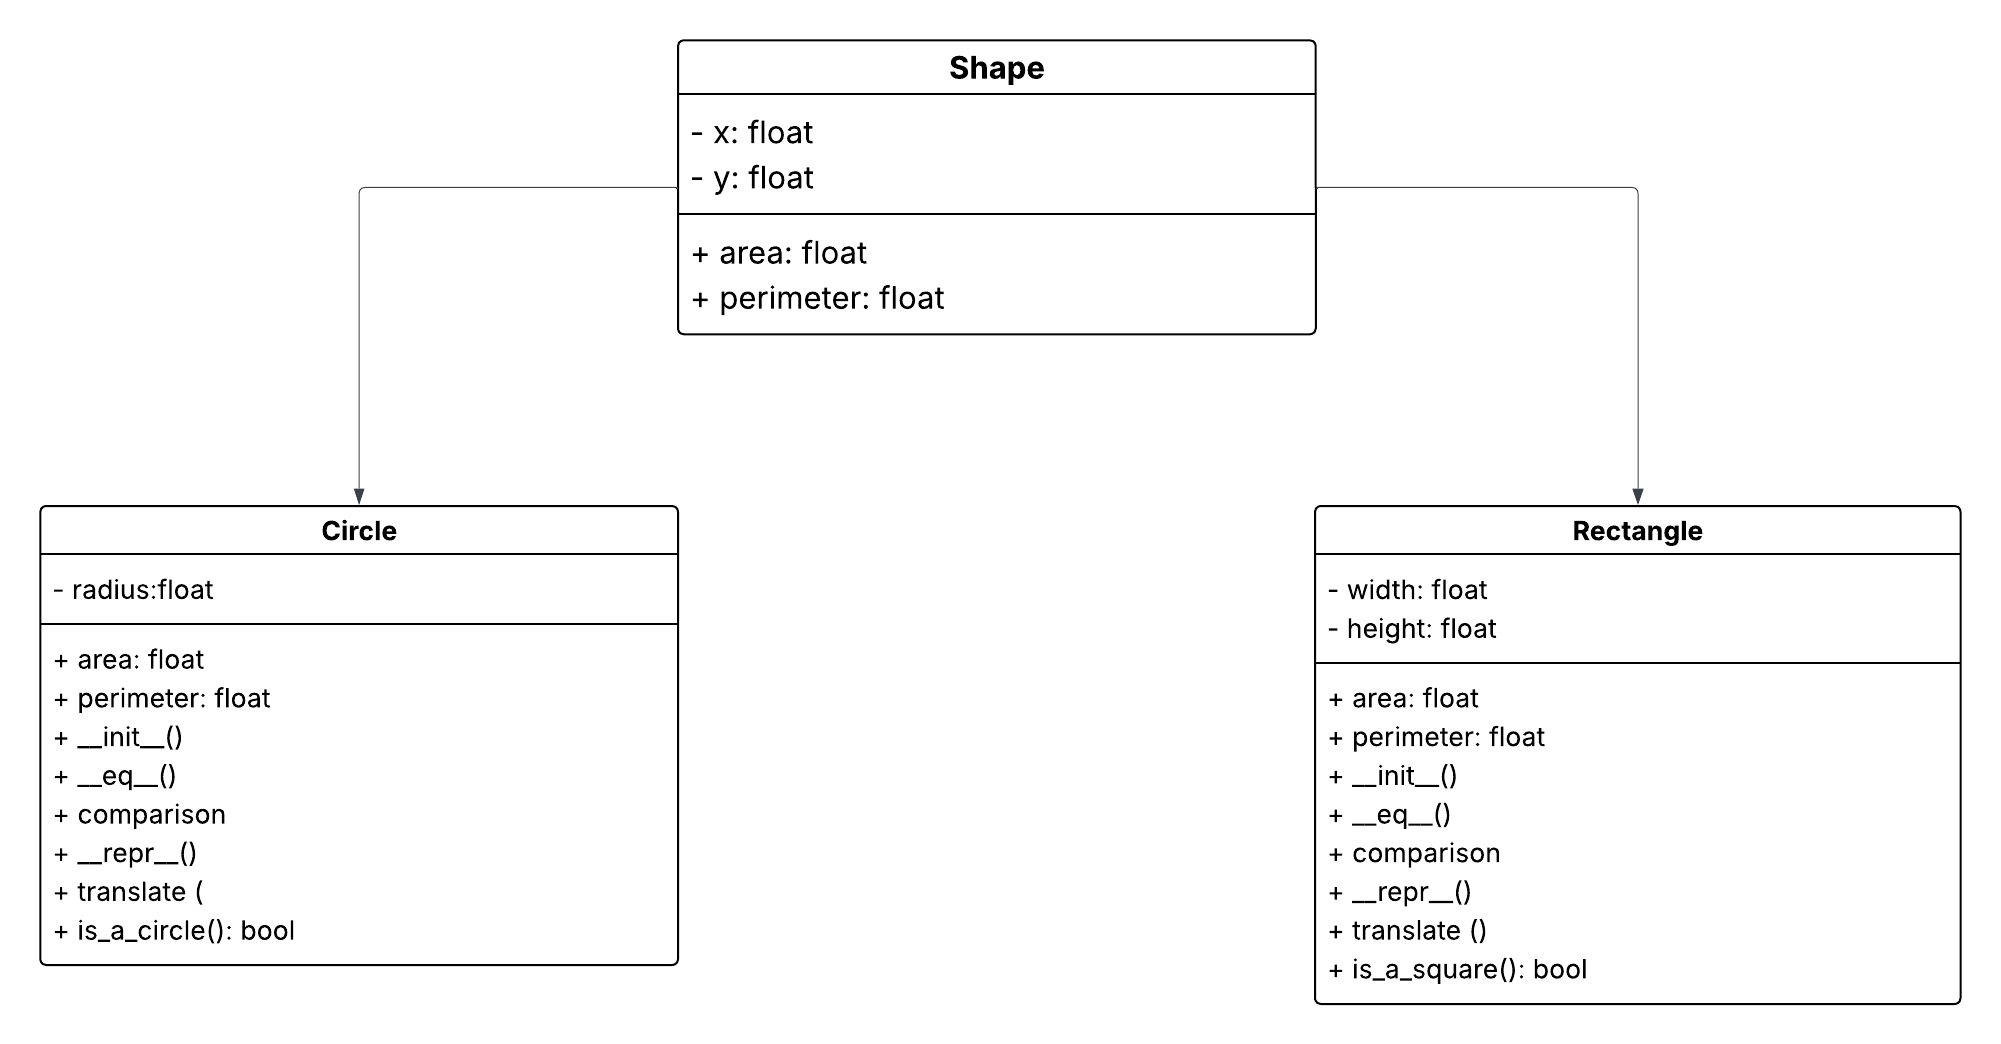
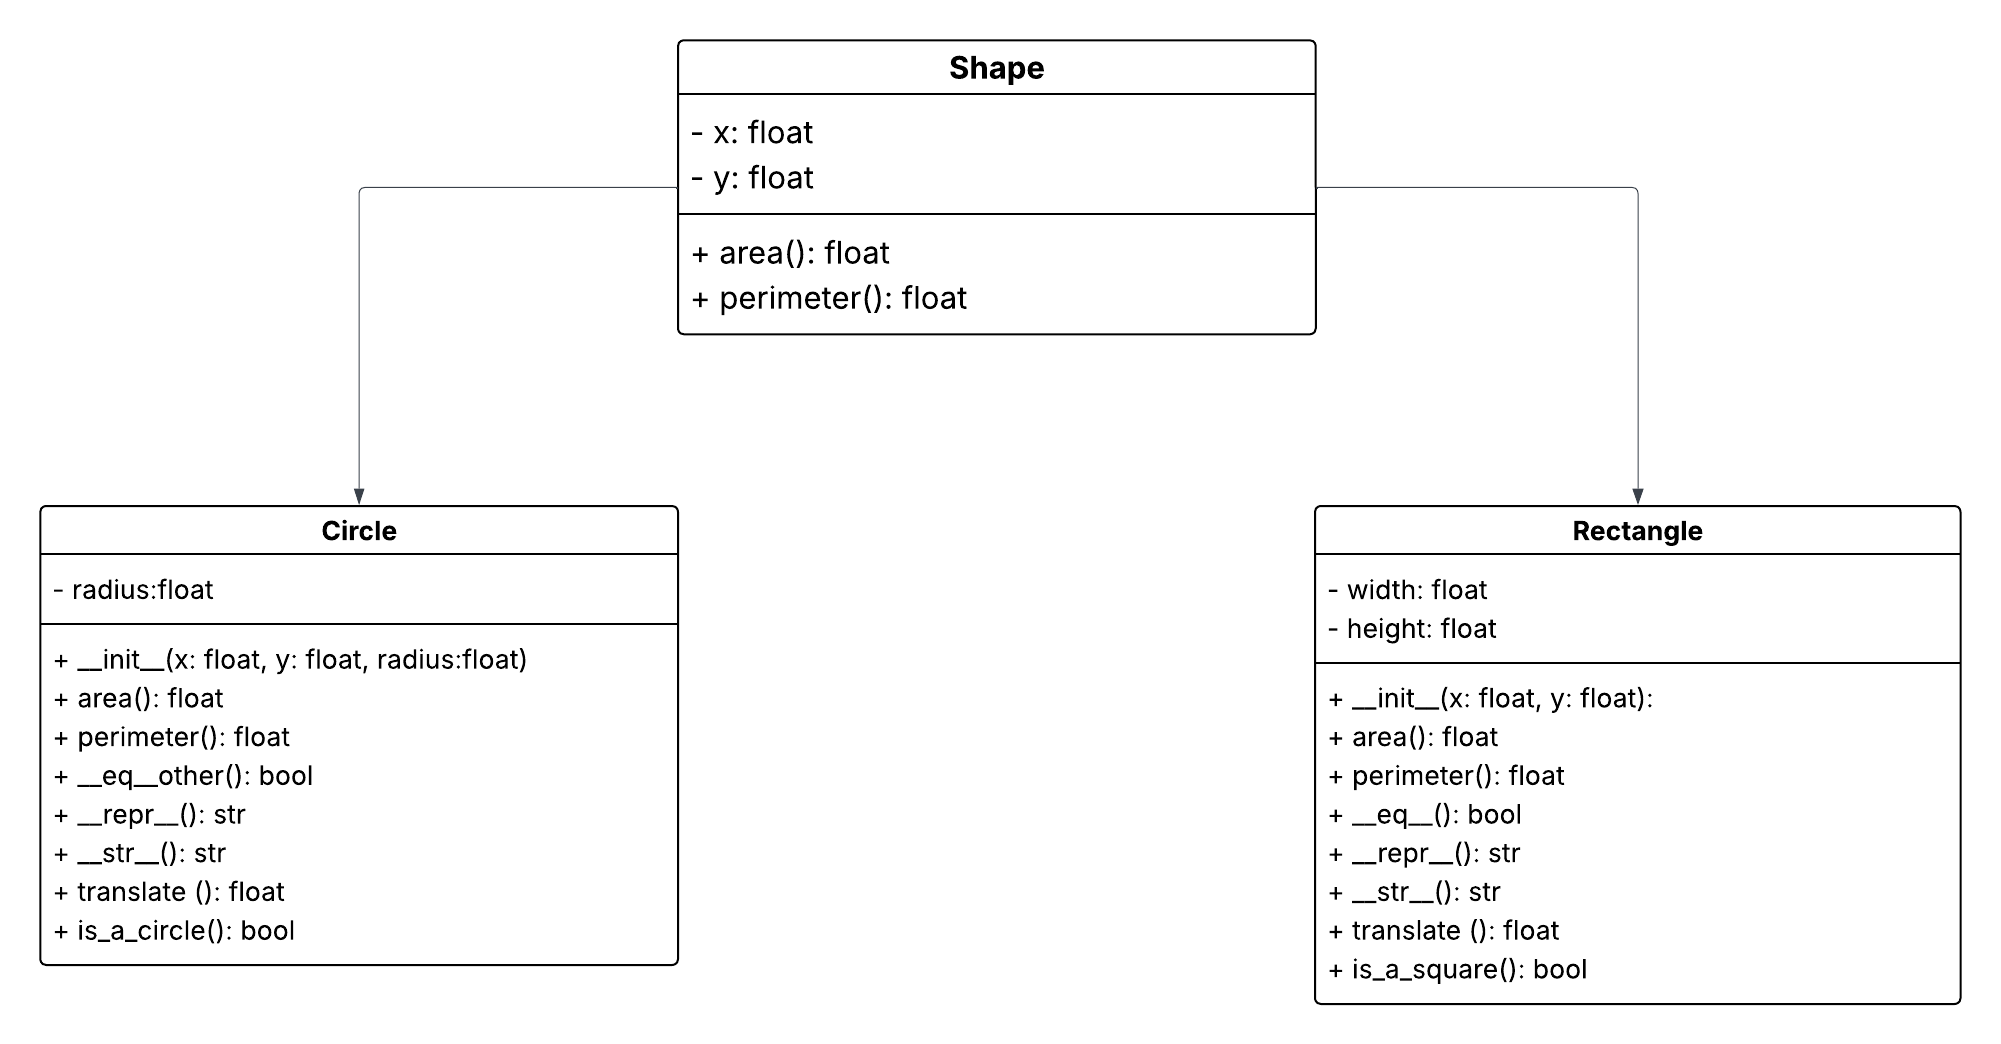
new functions

diff --git a/lab_2/rectangle.py b/lab_2/rectangle.py
@@ -1,0 +1,12 @@
+from shape import Shape
+
+
+class Rectangle(Shape):
+    def __init__(self, x: float = 0, y: float = 0, width: float = 1, height: float = 1):
+        super().__init__(x, y)
+        self.width = width
+        self.height = height
+
+    @property
+    def area(self):
+        return self.width * self.height

diff --git a/lab_2/shape.py b/lab_2/shape.py
@@ -1,0 +1,17 @@
+from abc import ABC, abstractmethod
+
+
+class Shape(ABC):
+    def __init__(self, x: float = 0, y: float = 0):
+        self.x = x
+        self.y = y
+
+    @property
+    @abstractmethod
+    def area():
+        pass
+
+    @property
+    @abstractmethod
+    def perimeter():
+        pass
